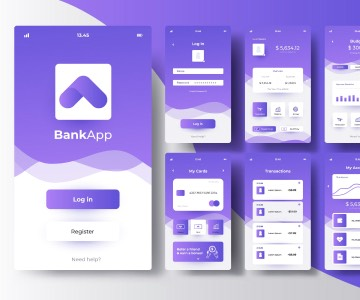
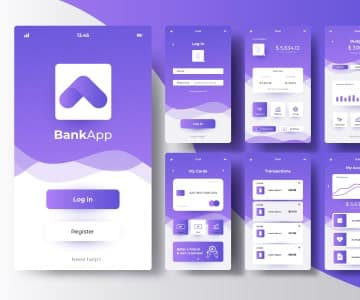
Change in css
Delete font-wight: 400, 700.
Add letter-spasing, sans-serif, cursor (pointer).
Change box-shadow in portfolio-button.
More optimized images.

diff --git a/css/styles.css b/css/styles.css
@@ -19,8 +19,8 @@ body {
     background-color: var(--color-white);
     font-family: 'Roboto', sans-serif;
     font-size: 16px;
-    font-weight: 400;
     line-height: 1.5;
+    letter-spacing: 0.02em;
 
 
 }
@@ -34,7 +34,7 @@ ul {
 /* Header */
 .logo-first {
     color: var(--color-primary-text);
-    font-family: 'Raleway';
+    font-family: 'Raleway', sans-serif;
     font-weight: 800;
     font-size: 18px;
     line-height: 1.17;
@@ -47,6 +47,7 @@ ul {
 .header-link {
     color: var(--color-primary-text);
     font-weight: 500;
+   
 }
 .header-link:hover,
 .header-link:focus {
@@ -59,6 +60,7 @@ ul {
 .adress-link {
     color: var(--color-secondary-text);
     font-style: normal;
+    
 }
 .adress-link:hover,
 .adress-link:focus {
@@ -74,6 +76,7 @@ ul {
     font-weight: 700;
     font-size: 56px;
     line-height: 1.07;
+    
 }
 .hero-button {
     background-color: var(--color-primary-brand);
@@ -85,6 +88,8 @@ ul {
     font-size: 16px;
     line-height: 1.5;
     font-weight: 500;
+    letter-spacing: 0.04em;
+    cursor: pointer;
 }
 .hero-button:hover,
 .hero-button:focus {
@@ -97,14 +102,15 @@ ul {
     font-size: 20px;
     line-height: 1.2;
     font-weight: 500;
+    
 }
 .features-text {
     color: var(--color-secondary-text);
+    
 }
 .heading {
     font-size: 36px;
     line-height: 1.11;
-    font-weight: 700;
     text-align: center;
 }
 /* Team */
@@ -128,7 +134,7 @@ ul {
 }
 .logo-first-light {
     color: var(--color-light);
-    font-family: 'Raleway';
+    font-family: 'Raleway', sans-serif;
     font-weight: 800;
     font-size: 18px;
     line-height: 1.17;
@@ -143,19 +149,20 @@ ul {
     color: var(--color-primary-brand);
     background-color: var(--color-light);
     border: 1px solid var(--color-accent); 
-    box-shadow: 0px 4px 4px var(--color-black);
     border-radius: 4px;
     font-family: 'Roboto', sans-serif;
     font-size: 16px;
     line-height: 1.5;
     font-weight: 500;
+    letter-spacing: 0.04em;
+    cursor: pointer;
     
 }
 .portfolio-button:hover,
 .portfolio-button:focus {
     color: var(--color-white);
     background-color: var(--color-pressed-state);
-    cursor: pointer;
+    box-shadow: 0px 3px 1px rgba(0, 0, 0, 0.1), 0px 2px 1px rgba(0, 0, 0, 0.08), 0px 2px 2px rgba(0, 0, 0, 0.12);
 }
 
 .portfolio-caption {
